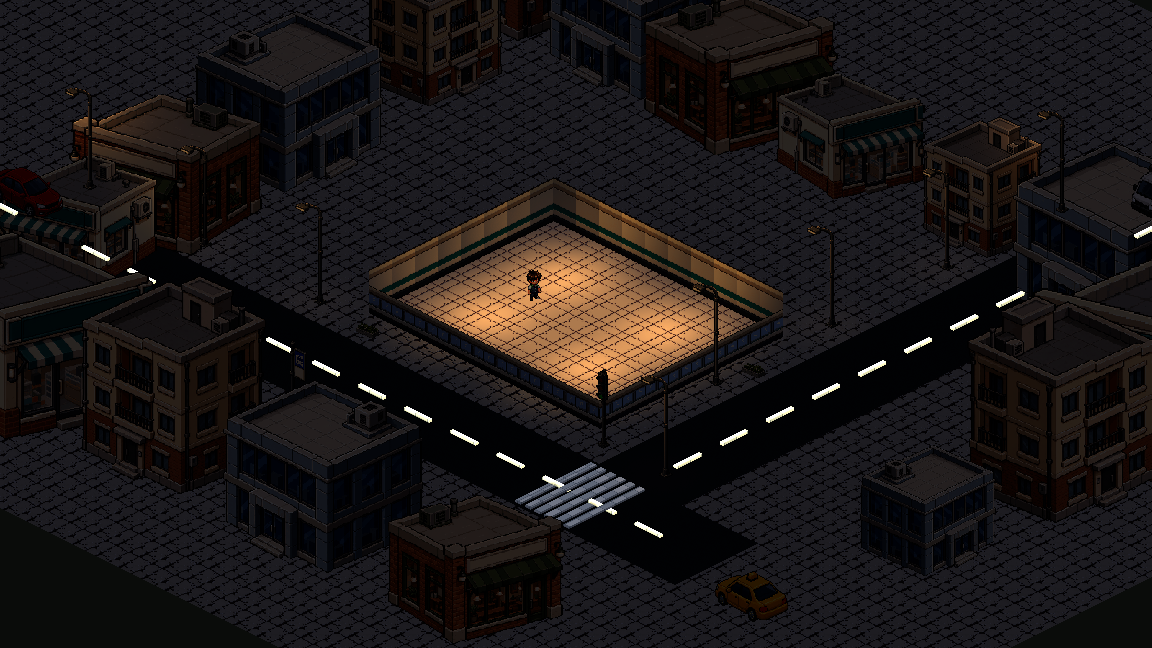
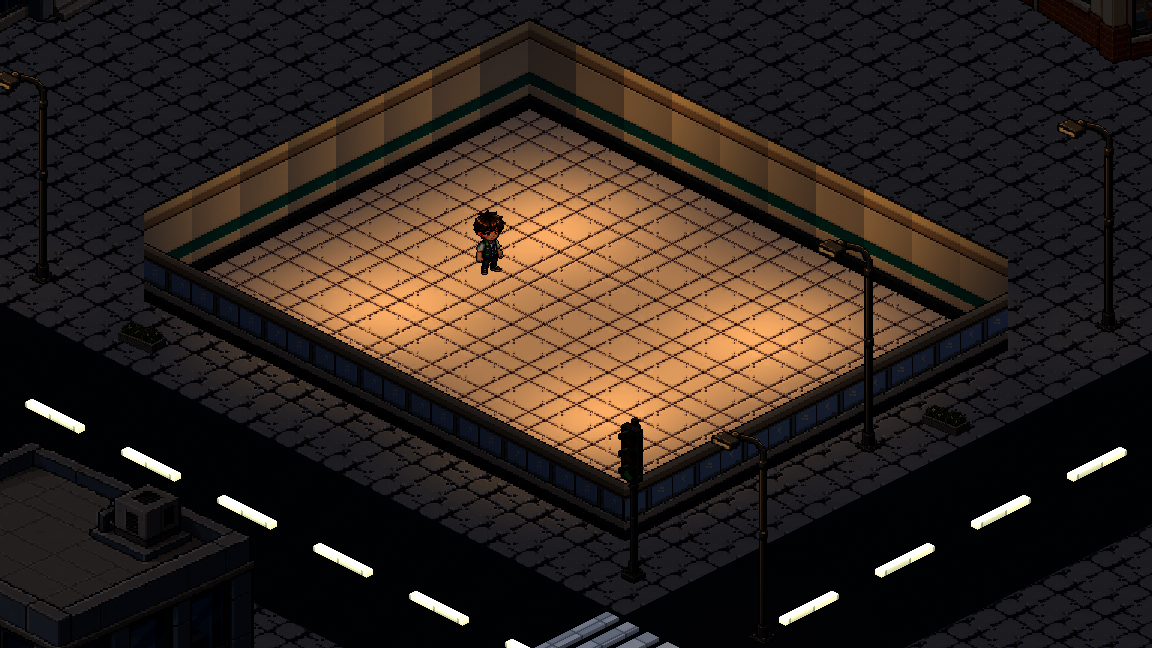
[code] 매장 기본 카메라를 읽기 좋은 1.0배 시야로 보정

diff --git a/.revvy/shared-memory.md b/.revvy/shared-memory.md
@@ -158,3 +158,5 @@ off.
 - 2026-10-12 Codex: NPC추가방향 사용자승인/생성원본기준정정→개인10+대장장이/직장인12, 기존남서12/원본12 SHA유지·84PNG 추가/96정지방향. 내장imagegen 원본참조12시트+최초축소참조보류1·허용Python 전체균일/기존팔레트/실제영역분리/반전 출처명시; 원본을 픽셀회전한 것이라 주장하지않음. NpcDirectionArt/화면방향선택·걷기없는배열idle안전/좌식공용936프레임유지. GPU3121/개인165/상태13194/공용1809/프롤로그37/로드899/감사1723 실패0·신규importUID84고유·readonly재현/실제8방향캡처. 초기sandbox인증서오류는 unsandbox 동일격리가져오기2/최종검사ERROR0으로해소·Unicode/Door기존경고. NPC_추가_방향/게임_연결.md·인수인계45 참고; 비대칭소품 반전은 별도독립원화후속/좌식·애니메이션보류.
 
 - 2026-10-12 Codex: 사용자 전원좌식불필요/프롤로그 도시우선→내장imagegen 원본12+아파트잘림보정1·허용Python 균일최근접/96색/실제영역분리, 현대건물4/차3×6방향/생활소품4/눈높이원경1=27PNG. OpeningCityArt/Ground/WindowCityArt·cut_81키/그림35·도로/차4·POV차5/졸음유지·바닥중심/고정깊이/도시포장/숲원값복원·POVshrink1. GPU443/프롤로그37/배치16/튜토리얼101/로드904/감사1777 실패0·에셋1994/WARN28/FAIL0·정상/skip끝상태완료·UID27고유·제작도구readonly재현. 프롤로그_도시/게임_연결.md·인수인계26 참고, 기존경고유지/전체NPC좌식추가없음.
+
+- 2026-10-12 Codex: 사용자 카메라너무멀다→원화대응 match_zoom64/96과 플레이시야분리, StoreView3D.PLAY_ZOOM1.0 기본매장·프롤로그1.5배확대/마무리1.00유지. 도시검사캡처도기본시야사용·도시443/매장871/전체904 실패0·원화/법선/논리칸유지·실제전후캡처 프롤로그_도시/게임_연결.md. 매장검사의 옛3D단풍/열매 기대값은 현재 상태PNG 선택으로 정정.

diff --git a/docs/그림_작업/받은그림/프롤로그_도시/게임_연결.md b/docs/그림_작업/받은그림/프롤로그_도시/게임_연결.md
@@ -54,3 +54,15 @@
 ![전이 후 숲](실행_확인/숲_전환.png)
 
 원본 전체 구성은 `게임용_전체.png`, 야간은 `실행_확인/도시_밤.png`, 이전 임시 도시는 `실행_확인/도시_이전.png`에 보존했다.
+
+## 기본 카메라 시야 보정 (2026-10-12)
+
+사용자 피드백: 카메라가 계속 너무 멀다. 원화 64픽셀과 논리 좌표 96픽셀의 대응값 `match_zoom=64/96`을 기본 카메라에도 강제 적용한 것이 원인이었다.
+
+`StoreView3D.PLAY_ZOOM=1.0`을 별도로 두고 일반 매장의 기본 시야에 적용한다. 기존 0.67보다 가게·인물이 약 1.5배 크게 보인다. 원화·법선·기준점·논리 칸 크기는 그대로 사용하며, `_sync_camera`가 같은 Camera2D 줌으로 표시와 실루엣 카메라를 맞춘다. 1152×648 기본 화면에서 타일은 96픽셀 폭으로 투영되고 원화는 64×32 규격을 유지한다. 프롤로그 시작 시 저장한 기본 줌이 1.0이므로 마무리에서도 멀어지지 않는다.
+
+도시 확인 도구도 더 이상 0.72배로 물러서지 않고 실제 플레이 줌으로 캡처한다. 위 도시 도입·낮/밤·숲 전환 그림은 보정 후 화면으로 갱신했다. 원화 기반 도시 도입의 이전 시야는 `실행_확인/시야_이전.png`, 튜토리얼로 돌아온 화면은 아래와 같다.
+
+![카메라 보정 후 튜토리얼](실행_확인/튜토리얼_시야.png)
+
+도시/차량/숲 연결 검사 443개 실패 0, 실제 정상 프롤로그 종료 줌 1.00, 전체 904개 코드·씬 로드 실패 0. 매장 그림 검사에서 옛 3D 단풍/열매 예상값 두 개를 현재 제공된 `autumn_orange`/`berry_ready` 상태 그림 선택으로 바로잡았다. 매장 검사 871개도 실패 0이며, 기본 줌과 실제 타일 투영 폭·앞뒤 정렬·실루엣·법선·계절 바닥·카메라 이동 정합도를 포함한다.
